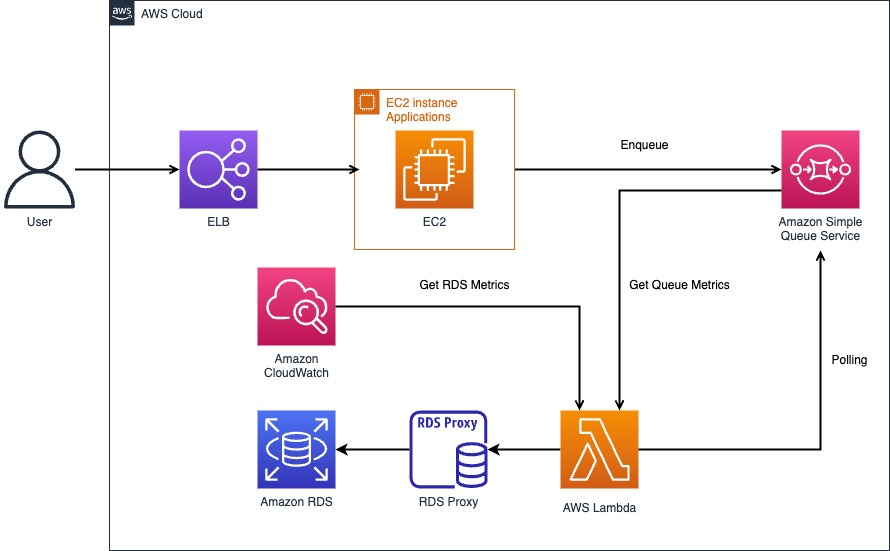
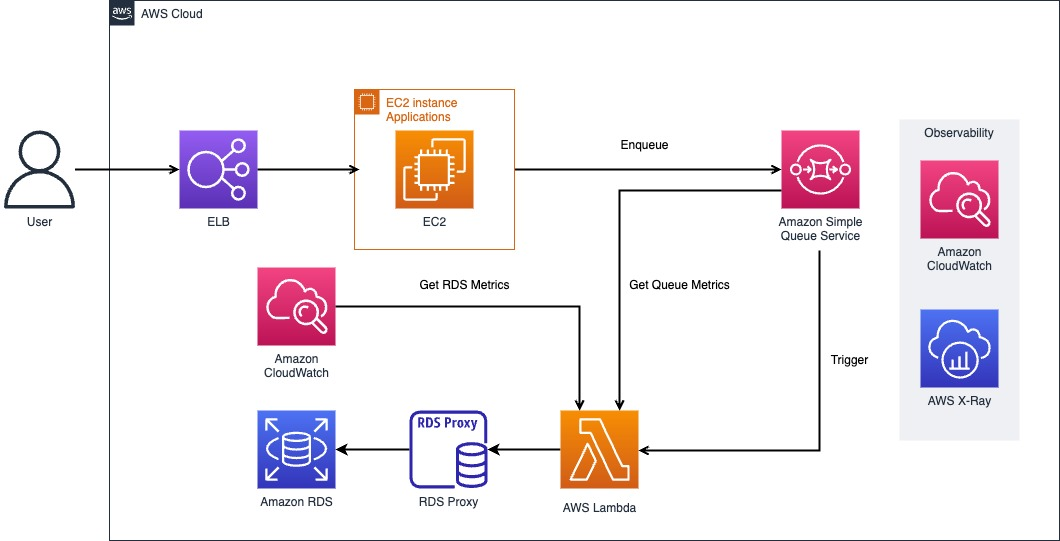
docs: change title of demo and modify guid for users
- Change title
- Add X-ray at demo architecture image.
- Add more guides for testing

Changed region(s): [[0.0, 0.1479, 0.9708, 0.9464], [0.091, 0.0, 0.2427, 0.0591], [0.091, 0.976, 0.1213, 1.0]]

diff --git a/README.md b/README.md
@@ -1,4 +1,4 @@
-# Asynchronously writing to a database with Amazon SQS
+# Mitigating the impact of database write load with Amazon SQS
 
 This demo helps handle write loads asynchronously and maintain existing databases with AWS SQS and Lambda.
 You'll be able to see and apply ways to handle intensive database write loads using the queue through this demo.
@@ -68,6 +68,8 @@ Please wait about 5 minutes even if the creation with the cdk is complete 🥹
 #### 5. If the step 4 is completed, Enjoy test with any load testing tool such as JMeter!
 
 The example test schedule with JMeter is at statics/tester.
+
+![](statics/images/demo-run.gif)
 
 ## Useful commands
 

diff --git a/statics/tester/README.md b/statics/tester/README.md
@@ -17,7 +17,7 @@ $ wget https://dlcdn.apache.org//jmeter/binaries/apache-jmeter-5.5.tgz
 $ tar -xf apache-jmeter-5.5.tgz
 ```
 
-3. Set the jmx file at same directory using scp or vi
+3. 3. Edit {{ELB DNS Name}} in the .jmx file and set the .jmx file at same directory using scp or editor (e.g. vi)
 
 4. Run the .jmx
 
